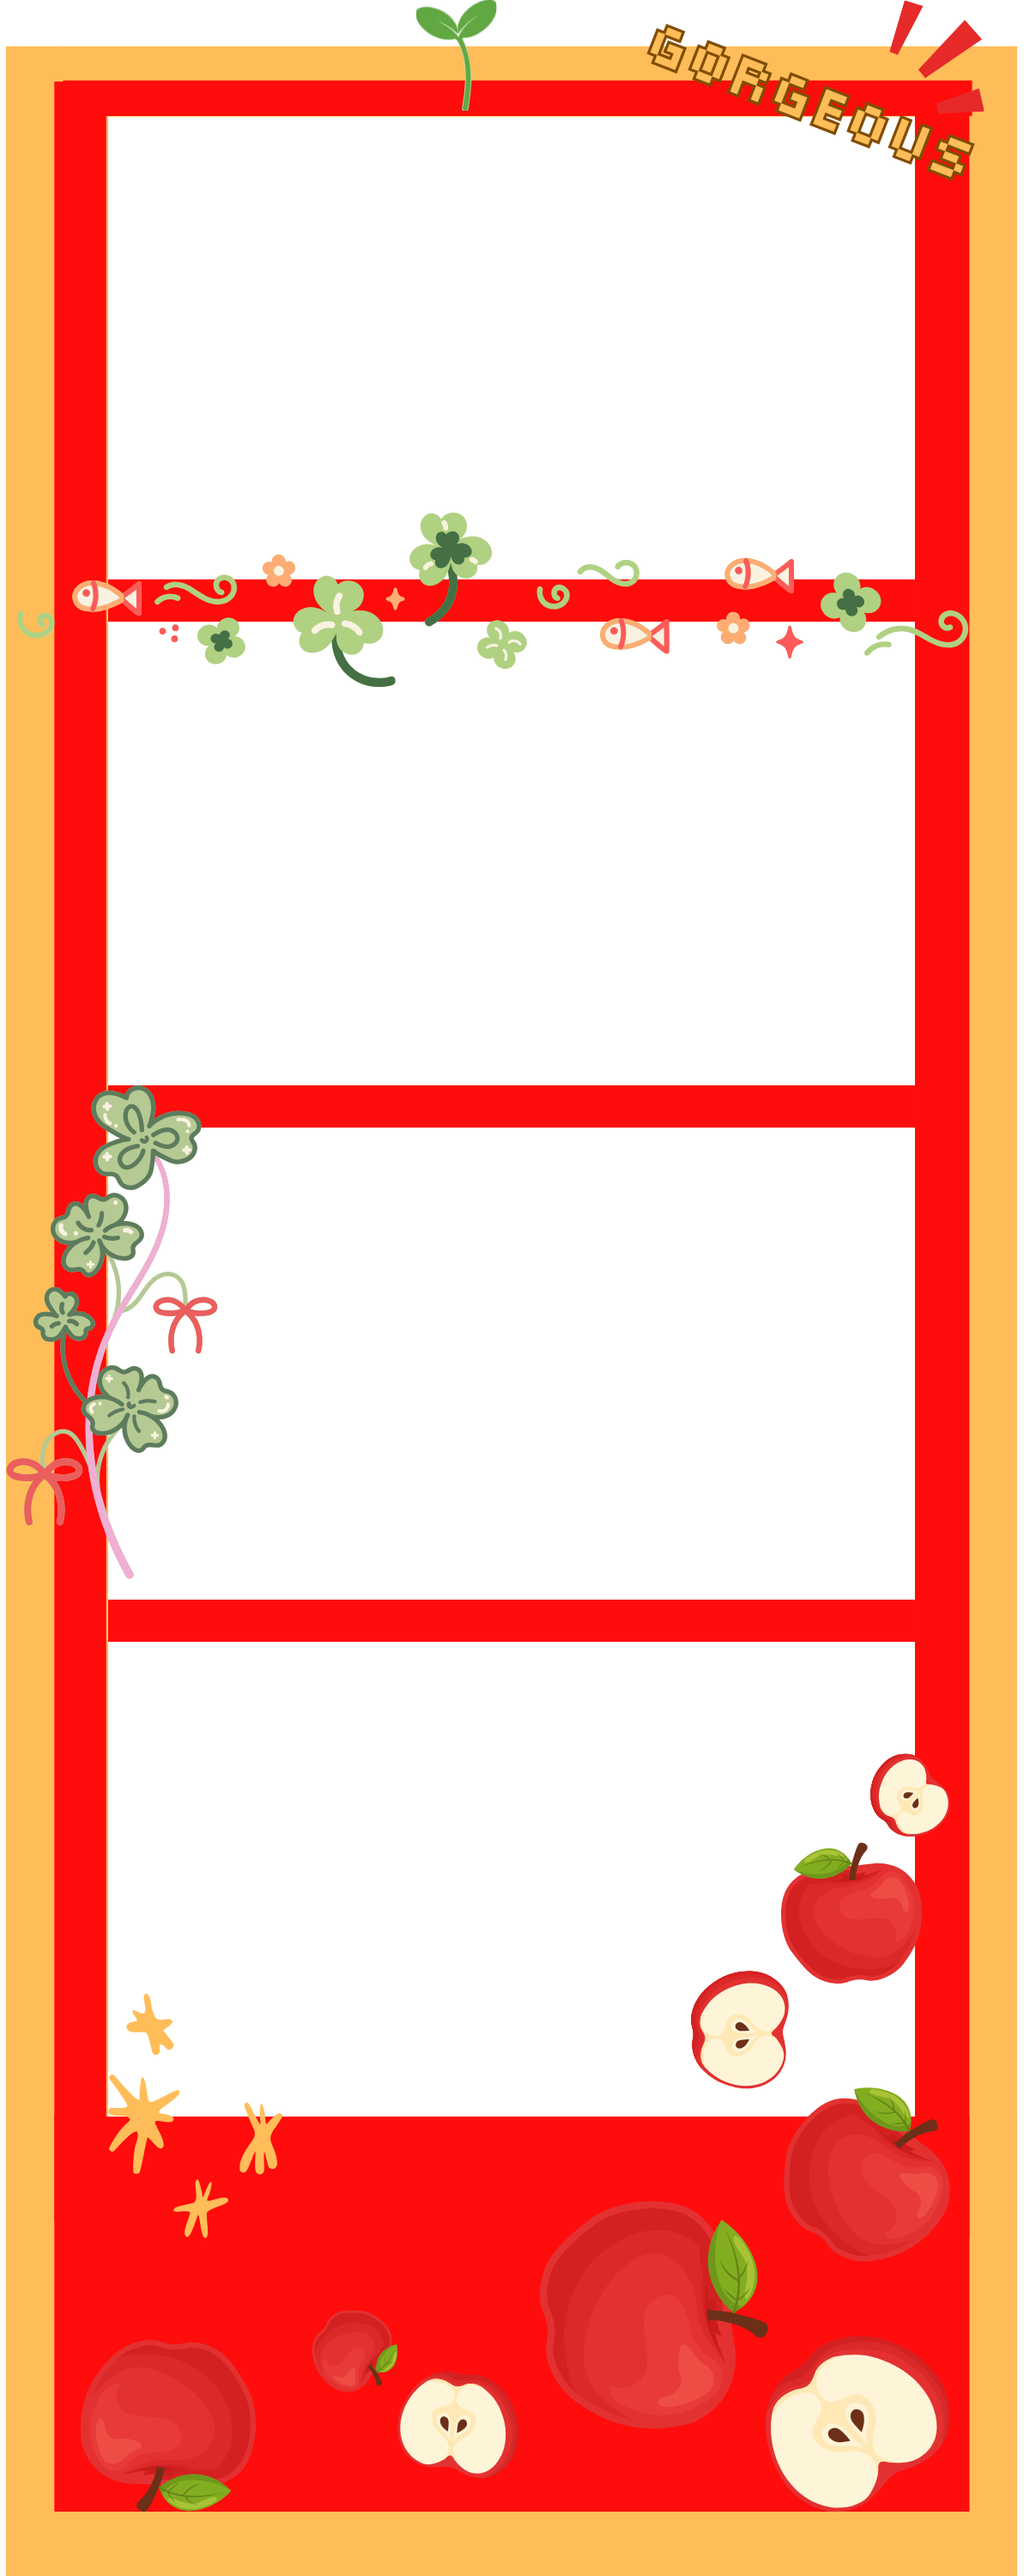
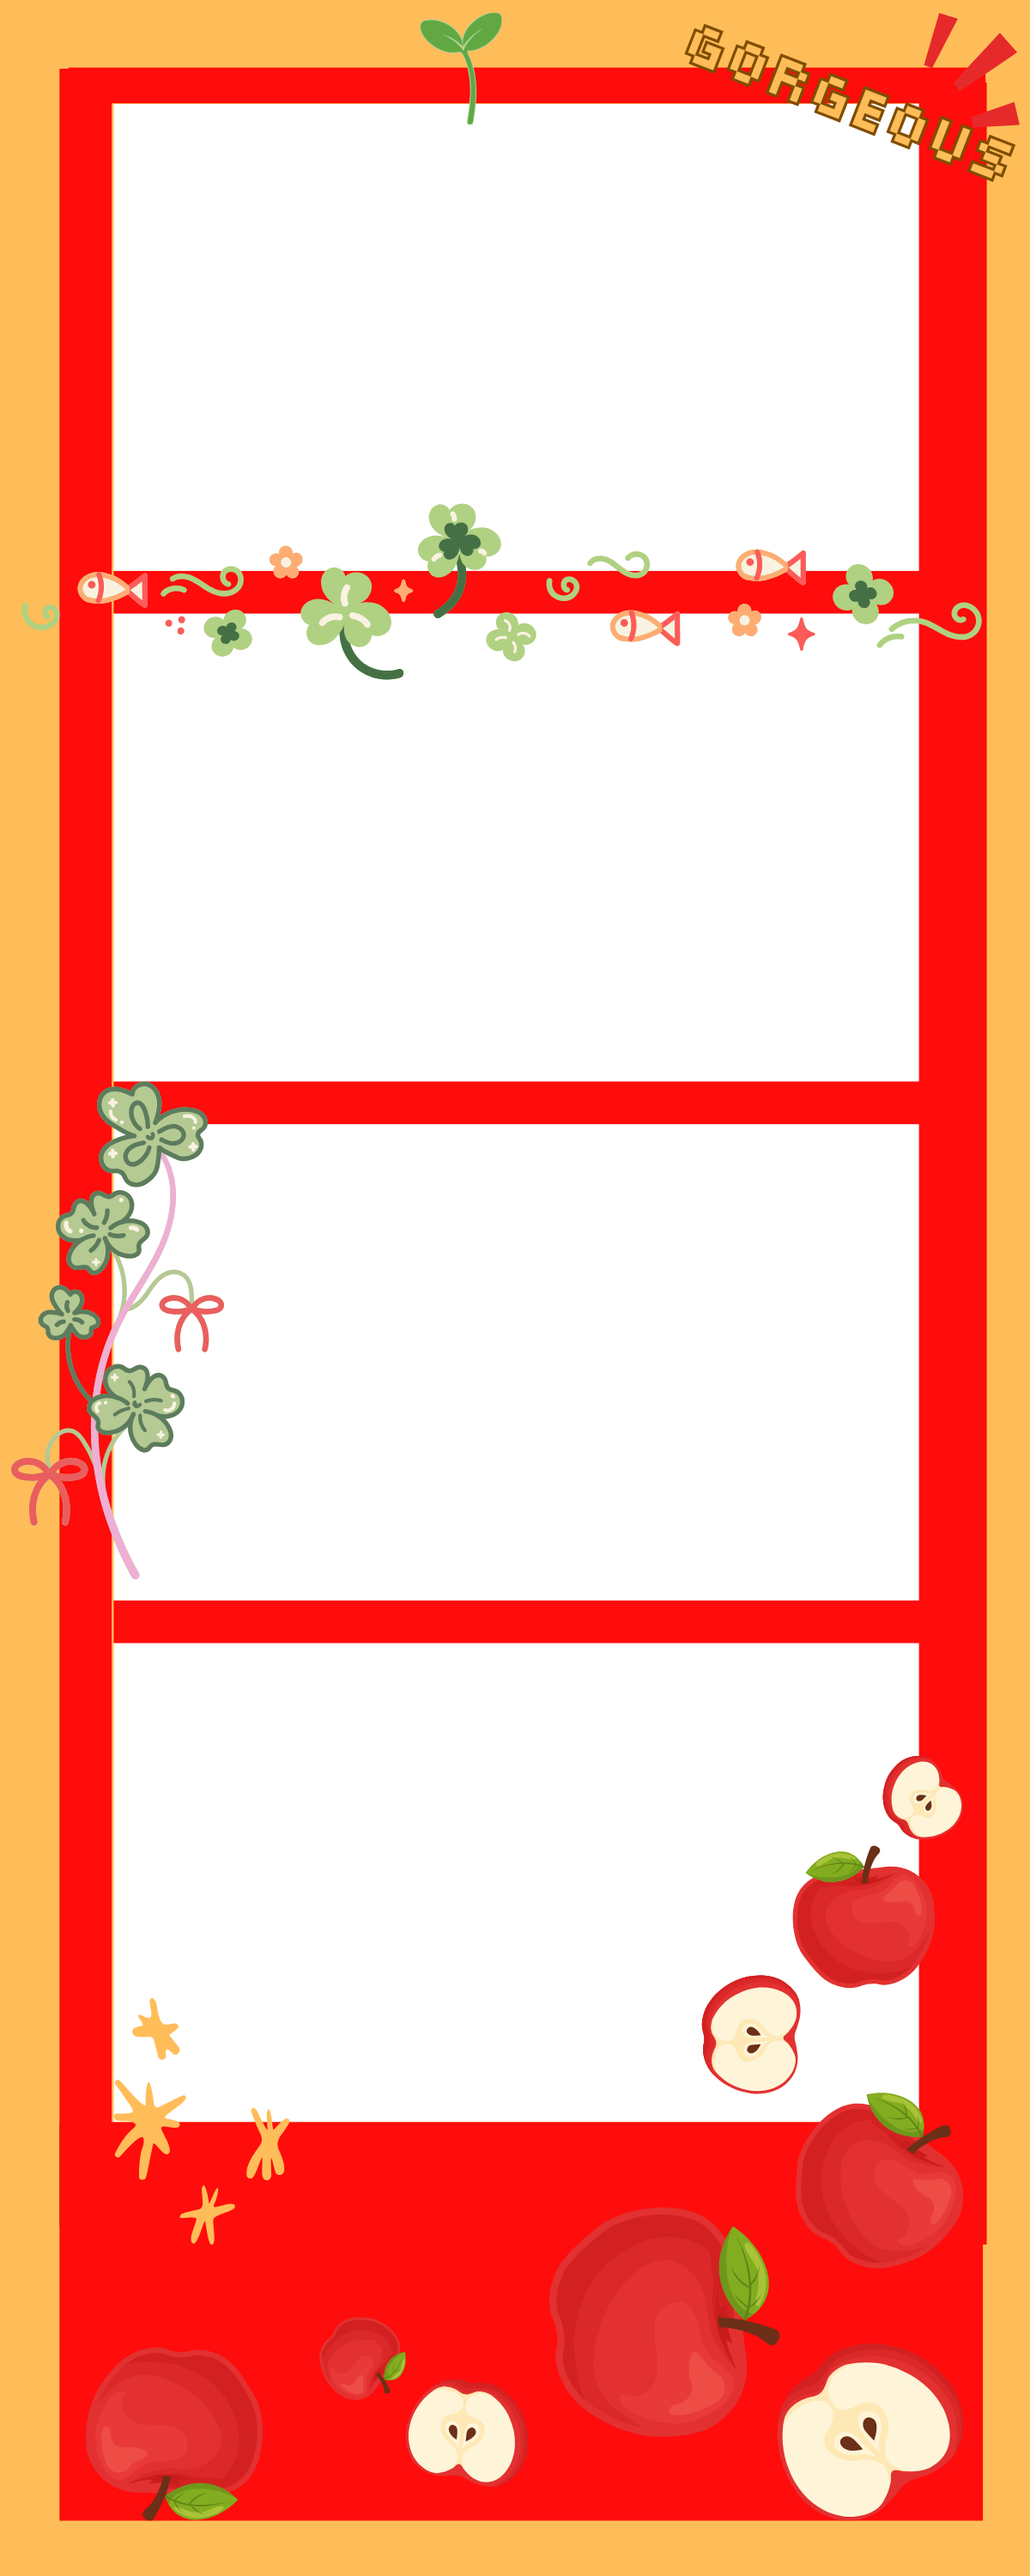
finishing

diff --git a/build/index.html b/build/index.html
@@ -1,1 +1,24 @@
-<!doctype html><html lang="en"><head><meta charset="utf-8"/><link rel="icon" href="/favicon.ico"/><meta name="viewport" content="width=device-width,initial-scale=1"/><meta name="theme-color" content="#000000"/><meta name="description" content="Web site created using create-react-app"/><link rel="apple-touch-icon" href="/logo192.png"/><link rel="manifest" href="/manifest.json"/><title>mypotoboothterraproject</title><script defer="defer" src="/static/js/main.c17699ad.js"></script><link href="/static/css/main.d5021176.css" rel="stylesheet"></head><body><noscript>You need to enable JavaScript to run this app.</noscript><div id="root"></div></body></html>
+<!doctype html>
+<html lang="en">
+    <head>
+        <meta charset="utf-8"/>
+        <link rel="icon" type= "image/png" href="%PUBLIC_URL%/mylogo.png"/>
+        <meta name="viewport" content="width=device-width,initial-scale=1"/>
+        <meta name="theme-color" content="#000000"/><meta name="description" content="Web site created using create-react-app"/>
+        <link rel="apple-touch-icon" href="%PUBLIC_URL%/logo192.png"/><link rel="manifest" href="%PUBLIC_URL%/manifest.json"/>
+        <title>mypotoboothterraproject</title>
+        <script defer="defer" src="/static/js/main.c17699ad.js">
+
+        </script>
+        <link href="/static/css/main.d5021176.css" rel="stylesheet">
+    </head><body><noscript>You need to enable JavaScript to run this app.
+
+    </noscript>
+    <
+    div id="root">
+
+    </
+    div>
+</
+body>
+        </html>

diff --git a/src/App.js b/src/App.js
@@ -9,12 +9,17 @@ function App() {
   return (
     <div className="App" style={{
        backgroundColor:
-      selectedFrame === "/assets/frames/miframe1.png" ?"#f7cbad" :"#fff8f0",
+      selectedFrame === "/assets/frames/miframe1.png" ?"#f7cbad" 
+      :selectedFrame === "/assets/frames/miframe4.png"
+      ?"#9680b5"
+      :"#f3fff3",
       backgroundImage:
       selectedFrame === "/assets/frames/miframe1.png"
         ? "linear-gradient(90deg,  rgba(190, 0, 0, 0.22) 50%, transparent 50%), linear-gradient(rgba(190, 0, 0, 0.22),50%, transparent 50%)"
        : selectedFrame === "/assets/frames/miframe2.png"
         ? "radial-gradient(circle, #ef4747 0 4px,transparent 4.5px), radial-gradient(circle, #a3ed98 0 4px,transparent 4.5px), radial-gradient(circle, #32b24c 0 4px, transparent 4.5px) "
+        : selectedFrame === "/assets/frames/miframe4.png"
+        ? "repeating-conic-gradient(from 0deg, #a039ad 0deg 15deg, #d0c152 15deg 30deg)"
         : "none",
       backgroundSize: "40px 40px",
       minHeight: "100vh",

diff --git a/public/index.html b/public/index.html
@@ -2,7 +2,7 @@
 <html lang="en">
   <head>
     <meta charset="utf-8" />
-    <link rel="icon" href="%PUBLIC_URL%/favicon.ico" />
+    <link rel="icon" type="image/png" href="%PUBLIC_URL%/mylogo.png" />
     <meta name="viewport" content="width=device-width, initial-scale=1" />
     <meta name="theme-color" content="#000000" />
     <meta

diff --git a/src/components/Photobooth.js b/src/components/Photobooth.js
@@ -3,8 +3,8 @@ import Webcam from "react-webcam";
 
 const frameOptions = [
     "/assets/frames/miframe1.png",
-    "/assets/frames/heart-frame-2.png",
-    "/assets/frames/heart-frame-3.png",
+    "/assets/frames/miframe4.png",
+    "/assets/frames/miframe3.png",
     "/assets/frames/miframe2.png",
 ];
 
